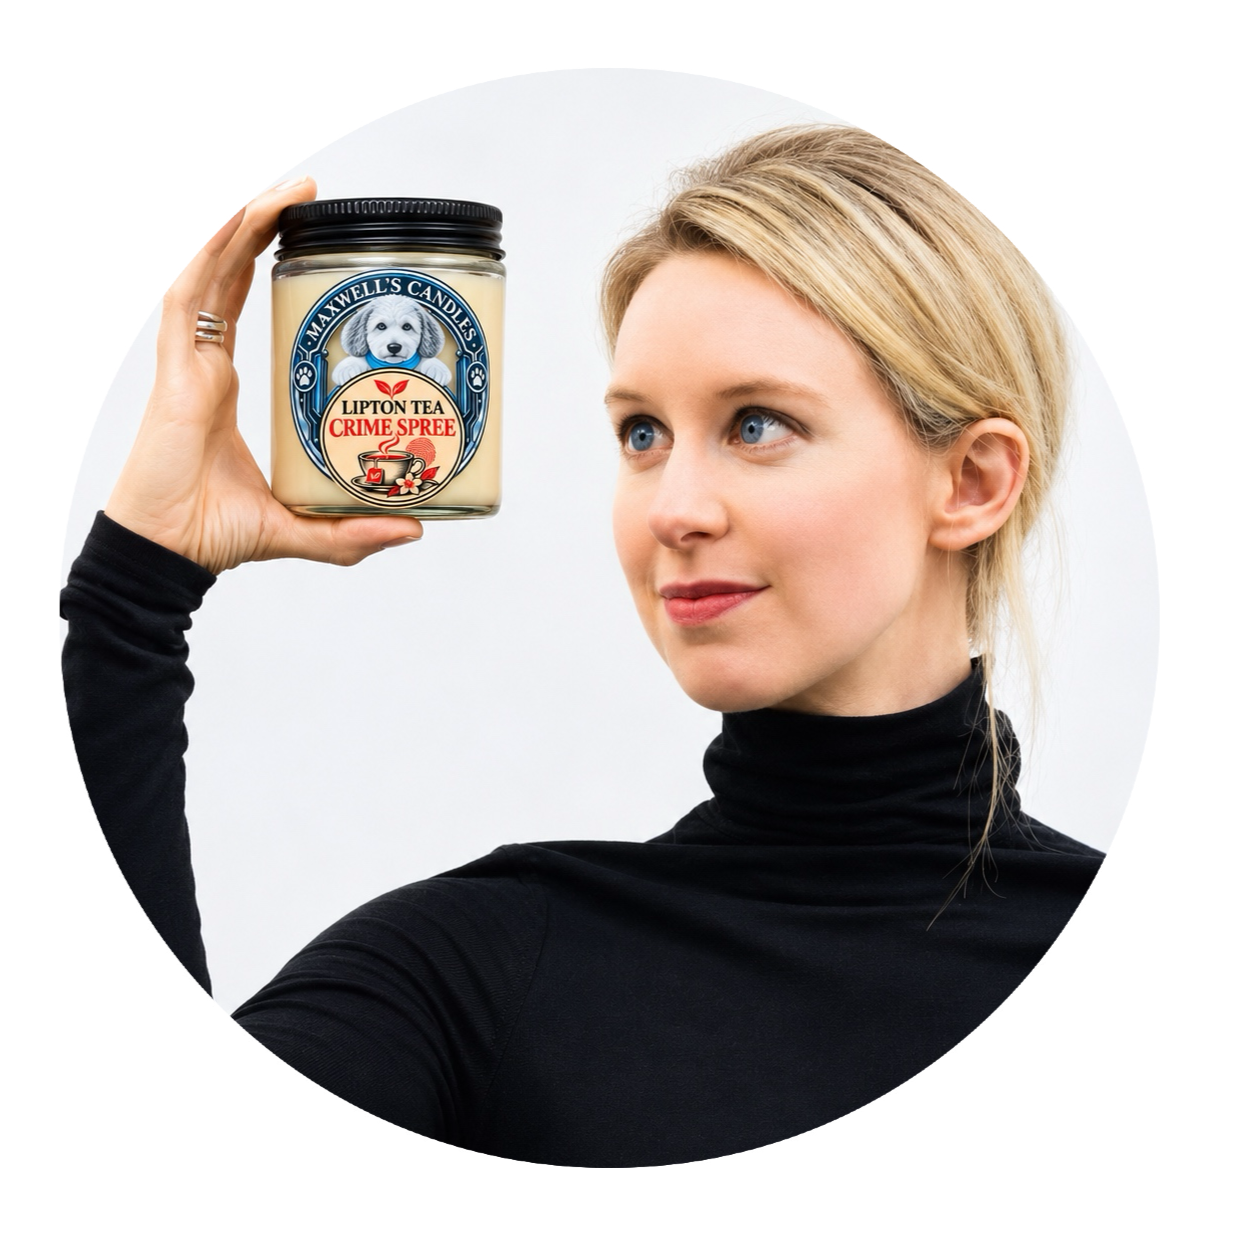
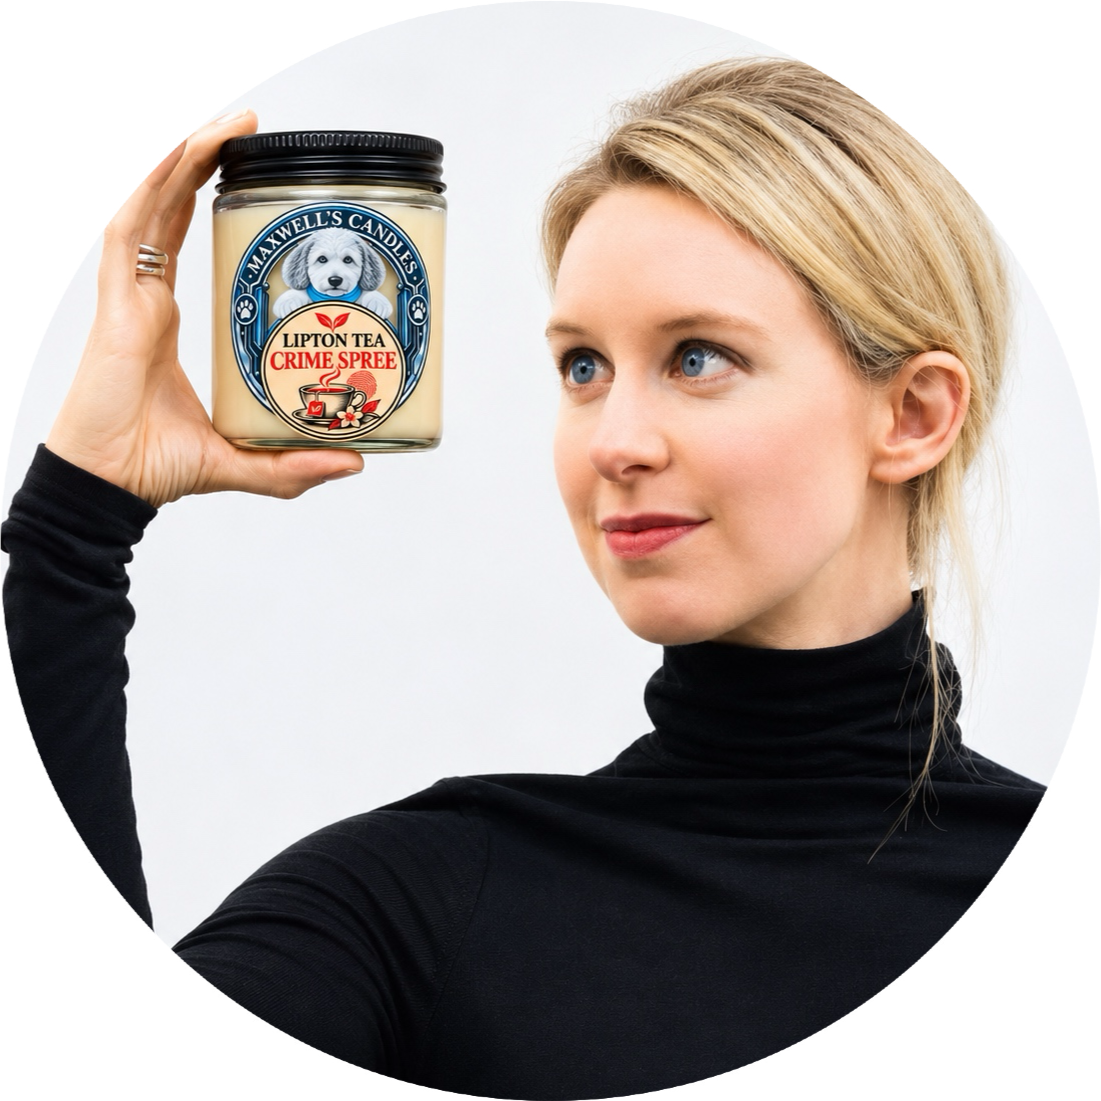
Trim white space from Elizabeth Holmes photo
Claude-Session: https://claude.ai/code/session_01CYnjkEpoQSnRkWp83oXGFc

diff --git a/reviews.html b/reviews.html
@@ -483,7 +483,7 @@
             <!-- Elizabeth Holmes -->
             <div class="review-card">
                 <div class="review-header">
-                    <img src="Reviews/ElizabethHolmes.PNG" class="reviewer-photo" alt="Elizabeth Holmes" style="object-position: right top;">
+                    <img src="Reviews/ElizabethHolmes.PNG" class="reviewer-photo" alt="Elizabeth Holmes">
                     <div class="reviewer-info">
                         <div class="reviewer-name">Elizabeth Holmes</div>
                         <div class="reviewer-scent">Lipton Tea Crime Spree</div>
